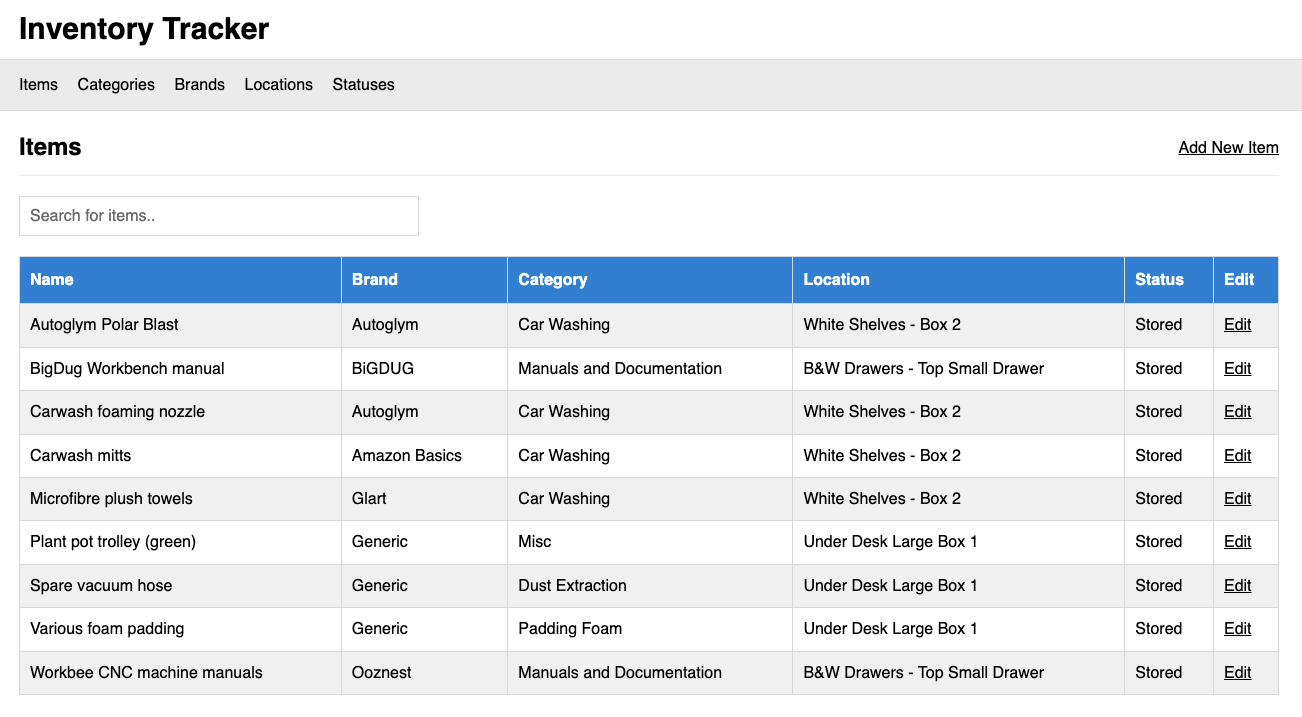
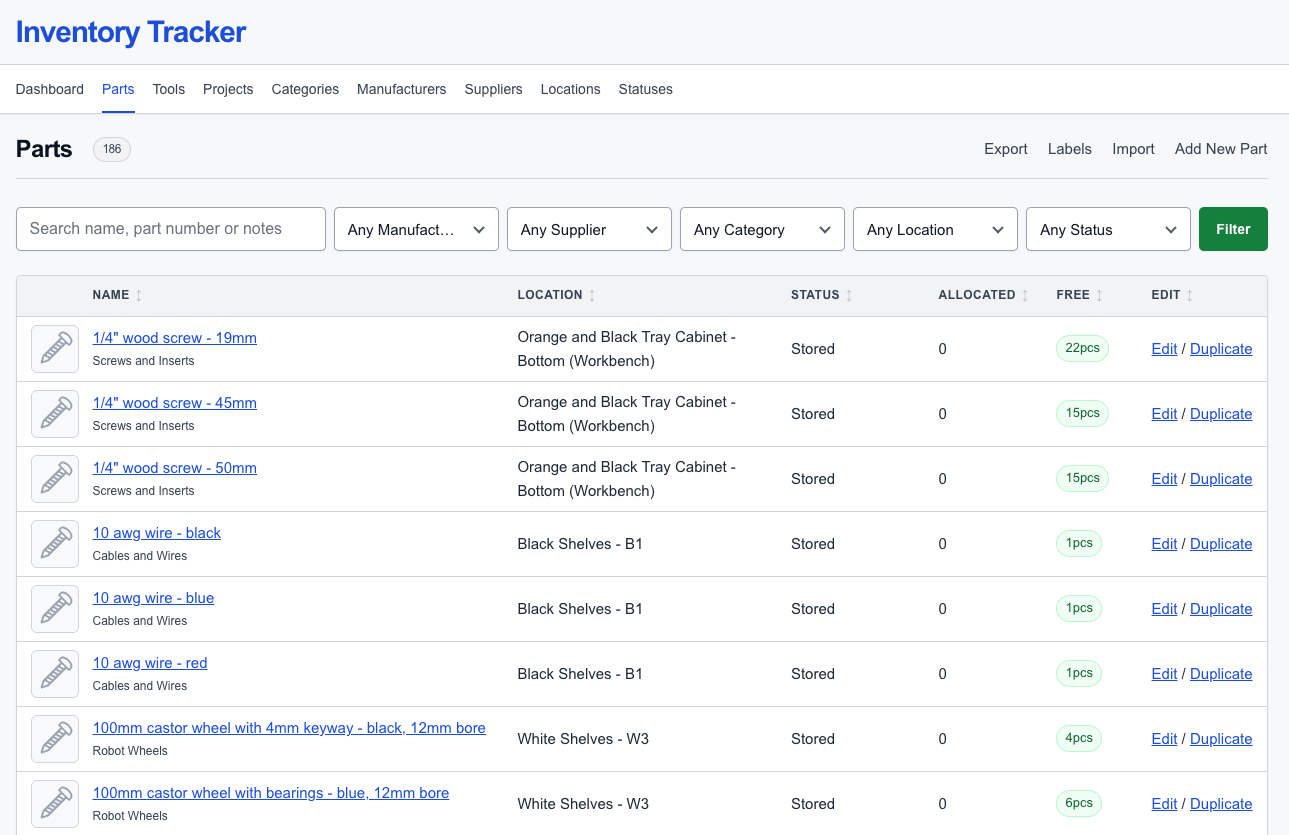
update readme and screenshot

diff --git a/README.md b/README.md
@@ -2,44 +2,14 @@
 
 A very simple workshop inventory/asset tracker. Keep track of which shelf, box, drawer or bin that oddly specific tool you need right now but haven't seen for months is kept in.
 
-It holds two kinds of thing. **Parts** are stock you consume: a quantity that projects reserve and installing uses up. **Tools** are single objects you keep: no quantity, just a record of who has one and when it is due back. Which kind something is comes from the categories it is filed under, so a category files either parts or tools and everything in it behaves accordingly.
-
-Very much work in progress. Designed for an average sized home workshop and almost definitely not scaleable to 10,000s or more items.
+It holds two kinds of thing. **Parts** are stock you consume: a quantity that projects reserve and installing uses up. **Tools** are single objects you keep: no quantity, just a record of who has one and when it is due back.
+Designed for a home workshop and almost definitely not scaleable to 10,000s or more items.
 
 *Note:* there is no authentication or login process for users so this should only be used on a secure private home network.
 
 ## Screenshot
 
 ![Inventory Tracker](/assets/screenshot.png?raw=true "Inventory Tracker")
-
-## Features
-
-* Mark a category as filing either parts or tools, which is what decides how the things in it behave
-* Add parts, tools, materials etc and categorise them by type and manufacturer
-* Give these items a location in your workshop where they are kept
-* Put sub-locations inside a location, so a set of drawers is one location with a sub-location per drawer
-* Give these items a status (stored, broken, on loan etc)
-* Attach a photo to an item, so you can see the thing you are looking for
-* Keep spec sheets, manuals, drawings and extra pictures against an item as documents, alongside that photo
-* Say what each of those documents is, so a file called `DS_74HC595_R3.pdf` is findable as a datasheet
-* See a thumbnail of a document that is a picture, and a document icon for one that is not, either of which opens the file
-* Put an item in more than one category
-* Manufacturer, supplier, category, location and status names are unique, so nothing gets filed under two spellings of the same thing
-* Record a colour and a link to the product page an item came from, on parts and tools alike
-* Filter and search items by name, part number, colour, notes, manufacturer, supplier, category, location and status
-* Sign a tool out to whoever is borrowing it, with a due date, and sign it back in again
-* Keep every sign-out as history, so a tool remembers where it has been
-* See what is out and what is overdue on the dashboard
-* Take a delivery in or write stock off by typing what changed, rather than working out the new total
-* Every change to a part's quantity is recorded with what changed, what it became and why
-* Track how much of a part is reserved for projects and how much is left
-* Stock reserves itself against the assemblies that need it, and installing a part takes it out of stock
-* Set a reorder level per part and see what is running low on the dashboard
-* Get warned when more of a part is reserved than you actually hold
-* Group parts into projects and assemblies, and print a shopping list of what still needs buying
-* Print QR labels for locations and items; scanning one opens it in the app
-* Import and export items as CSV
-* Long listings are split into pages, so a few hundred parts stay quick to load
 
 ### Todo
 
@@ -49,10 +19,10 @@ Very much work in progress. Designed for an average sized home workshop and almo
 
 A webserver running Apache or Nginx with:
 
-* PHP 7.4
-* MySQL 5.6 / MariaDB 10
+* PHP 8.4+
+* MySQL 8+ / MariaDB 10.11+
 
-Older/newer versions may also and probably will work fine but are untested.
+Older/newer versions may also work fine but are untested.
 
 ## To install
 
@@ -83,126 +53,6 @@ Run `database-updates.sql` against your database once:
 mariadb -u YOUR_USER -p YOUR_DATABASE < database-updates.sql
 ```
 
-It is safe to run more than once, so anything already applied is skipped. It
-adds the part number, reorder level, photo, timestamp, colour and product URL
-columns, stops an item being filed under the same category twice, adds the
-part/tool flag to categories, turns the deployments table into the tool
-sign-out table, adds the stock movement log, restates the quantities assemblies
-have reserved, adds the sub-location column to locations, puts an `https://` on
-any supplier website stored without one, adds the table item documents are
-recorded in, merges duplicate manufacturer, supplier, category, location and
-status names, and drops the unused `item_deployed_loc` column. That last column has not been read or written since
-deployments moved into their own table, but check it is empty first if you have
-been running this since before then:
-
-```sql
-SELECT item_id, item_name, item_deployed_loc FROM inv_items WHERE item_deployed_loc <> '';
-```
-
-### Duplicate names are merged
-
-Names are unique from this upgrade on, so the update merges any duplicates it
-finds first. The lowest numbered row wins and everything pointing at the others
-is moved onto it; the comparison ignores case, so `Acme` and `acme` become one.
-Nothing is lost, but it is worth seeing what will be merged before you run it:
-
-```sql
-SELECT brand_name, COUNT(*) FROM inv_brands GROUP BY brand_name HAVING COUNT(*) > 1;
-SELECT sup_name, COUNT(*) FROM inv_suppliers GROUP BY sup_name HAVING COUNT(*) > 1;
-SELECT status_name, COUNT(*) FROM inv_statuses GROUP BY status_name HAVING COUNT(*) > 1;
-SELECT cat_name, COUNT(*) FROM inv_categories GROUP BY cat_name HAVING COUNT(*) > 1;
-SELECT loc_name, loc_parent_id, COUNT(*) FROM inv_locations
-  GROUP BY loc_name, loc_parent_id HAVING COUNT(*) > 1;
-```
-
-A location's name only has to be unique inside the location it sits in, so a
-`Drawer 1` in two different chests is two locations and is left alone.
-
-Two categories of the same name filing different kinds are not duplicates:
-merging them would turn tools into parts. They are renamed instead, so
-`Clamps` filing parts and `Clamps` filing tools become `Clamps (Parts)` and
-`Clamps (Tools)`.
-
-### Deployments have gone
-
-Projects and assemblies cover everything deployments were doing for parts, so
-the table is now what tools are signed out in. Read what is in it before you
-upgrade, because a deployment quantity has nowhere to go once one row means one
-tool with one borrower:
-
-```sql
-SELECT d.dep_id, i.item_name, d.dep_quantity, d.dep_description, d.dep_timestamp
-FROM inv_deployments d INNER JOIN inv_items i ON i.item_id = d.dep_item_id;
-```
-
-Nothing is deleted. Each deployment becomes an open sign-out, with its
-description read as whoever has the thing, and the quantity dropped. Every
-category starts out filing parts, so those rows sit dormant until you mark some
-categories as tool categories; anything still against a part after that is
-history that will not be shown, and you can clear it with:
-
-```sql
-DELETE l FROM inv_tool_loans l
-  WHERE NOT EXISTS (
-    SELECT 1 FROM categories_items ci
-      INNER JOIN inv_categories c ON c.cat_id = ci.cat_id
-      WHERE ci.item_id = l.loan_item_id AND c.cat_type = 'tool');
-```
-
-Reservations against assemblies are restated at the same time. A deployment
-used to hold stock back from projects and no longer does, so a part that was
-short because something was deployed will now reserve what it needs.
-
-### Where the stock history starts
-
-Nothing that happened before the upgrade can be recovered, so every item is
-given one opening row saying what it held at the time. That way the history
-adds up to the figure on the item instead of starting from an unexplained
-number.
-
-Every category starts out filing parts, so items you go on to mark as tools get
-an opening row too. Tools have no stock and never show the history, so those
-rows do nothing, but they can be cleared once the categories are sorted:
-
-```sql
-DELETE m FROM inv_stock_movements m
-  WHERE EXISTS (
-    SELECT 1 FROM categories_items ci
-      INNER JOIN inv_categories c ON c.cat_id = ci.cat_id
-      WHERE ci.item_id = m.move_item_id AND c.cat_type = 'tool');
-```
-
-### Sorting your categories out
-
-Once upgraded, go to **Categories** and set the ones that file tools to
-**Tools**. Switching a category converts everything filed under it, so you can
-do this whenever you like rather than only while it is empty. An item is a tool
-when its categories are tool categories, and every category on an item has to
-agree.
-
-A switch is refused where an item in the category could not make the move on
-its own: one that is also filed under a category of the other kind, one whose
-stock a project has reserved, or a tool that has been signed out before. The
-category page names the items so you know what to sort out. Anything becoming a
-tool loses its quantity and reorder level, since a tool has no stock.
-
-## Locations and sub-locations
-
-A location can sit inside one other location, so a set of drawers is stored as
-the chest plus a location per drawer, and the item is filed in the drawer rather
-than in a location of its own. Not every location needs them: one with nothing
-inside it works exactly as it always has.
-
-Add one from **Locations** with the **Add sub-location** link on the row it goes
-inside, or by picking what it is **Inside** on the add and edit forms. Nesting
-stops there: a location that already holds sub-locations is not offered one of
-its own, so a name is never more than two deep, and a location cannot be deleted
-while anything is still inside it.
-
-Asking for what is in a location includes everything in its sub-locations, so
-the chest lists what is in all of its drawers and each drawer lists only its
-own.
-
 ## Settings
 
 Beyond the database details, `config/user.config.php` takes:
@@ -210,39 +60,9 @@ Beyond the database details, `config/user.config.php` takes:
 ```php
 'site' => [
     'title'    => 'Inventory Tracker',   // shown in the header and browser tab
-    'url'      => 'http://192.168.1.50/inventory/',  // only needed if QR labels
-                                                     // guess the wrong address
+    'url'      => 'http://192.168.1.50/inventory/',
     'per_page' => 50,   // rows per page in the listings
 ],
 
 'debug' => false,   // show error details on screen instead of only logging them
 ```
-
-## QR labels
-
-**Locations &rarr; Labels** prints a code per location, sub-locations included
-and each named in full, and the **Labels** link
-on the Parts and Tools pages prints one per item in the current filter.
-Scanning a location label opens the list of what is in it, so a code stuck on a
-drawer tells you what should be inside without opening it, and one on the chest
-covers every drawer in it. The address encoded is worked out from how you
-reached the page; set `site.url` if that is not how the workshop reaches this
-machine.
-
-## Importing
-
-**Parts &rarr; Import** takes a CSV with a heading row using the same columns as
-the export, so the simplest route is to export what you have, edit it in a
-spreadsheet, and bring it back. `Name`, `Manufacturer`, `Categories`, `Location`
-and `Status` are required; separate multiple categories with `|`. Name a
-sub-location with both locations, as `Tool Chest > Drawer 1`, which is how the
-export writes one; a single name is always a location of its own. A `Brand`
-column from an older export is read as `Manufacturer`. Manufacturers, suppliers,
-categories, locations and statuses that do not exist yet are created.
-
-`Type` is `Part` or `Tool` and defaults to `Part`. It decides which kind any
-categories the file creates will file, and a row naming a category that already
-files the other kind is skipped rather than guessed at. Tools are stored as one
-object whatever quantity the file gives them.
-
-You get a preview of what will happen before anything is written.
